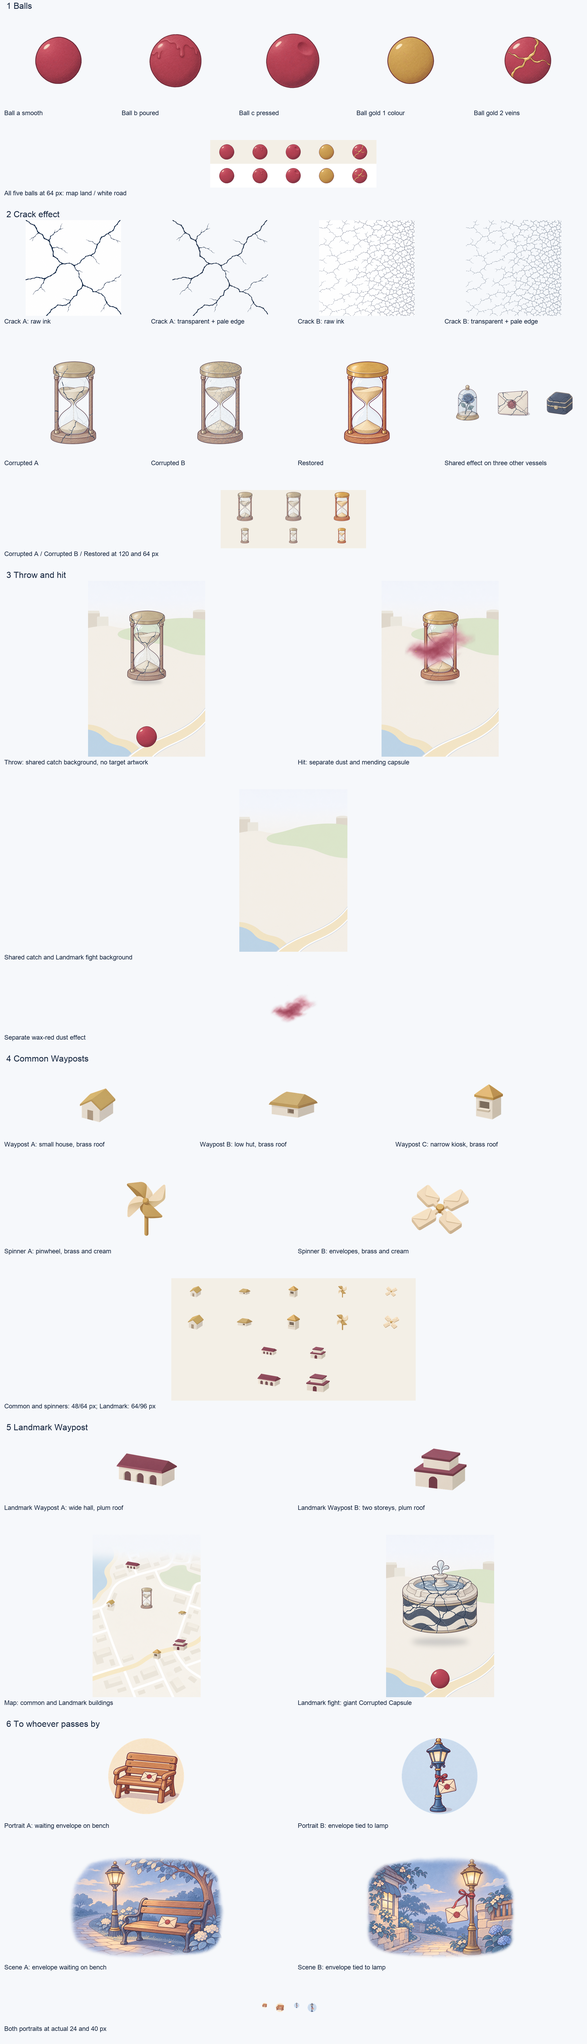
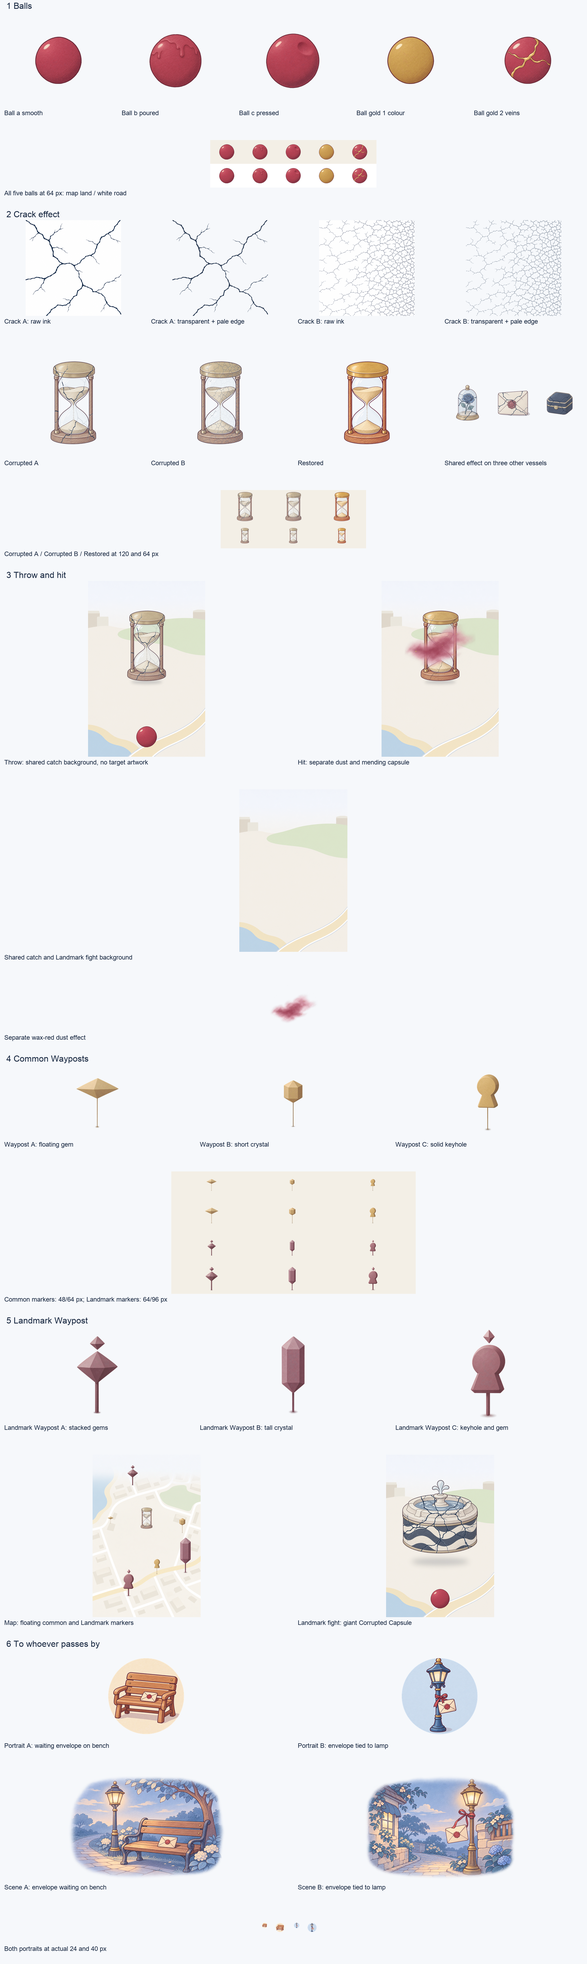
Replace Time Capsule Wayposts with floating markers

diff --git a/design/art/concepts/lost-and-found/make-review.py b/design/art/concepts/lost-and-found/make-review.py
@@ -4,7 +4,7 @@ from PIL import Image, ImageOps, ImageDraw, ImageFilter, ImageFont
 P=Path(__file__).resolve().parent
 LAND=(243,239,230); NAVY=(22,38,63); BRASS=(201,161,90); PLUM=(110,43,63)
 SIZE=(1024,1536)
-NAMES=("block-waypost-a-house","block-waypost-b-hut","block-waypost-c-kiosk","block-spinner-a-pinwheel","block-spinner-b-envelopes")
+NAMES=("marker-a-gem","marker-b-crystal","marker-c-keyhole")
 def load(path): return Image.open(path).convert("RGBA")
 def box(im): return im.getchannel("A").point(lambda x:255 if x>=16 else 0).getbbox()
 def crop(im): return im.crop(box(im))
@@ -16,12 +16,12 @@ def fit(im,w,h):
 def layer(im,xy):
     out=Image.new("RGBA",SIZE);out.alpha_composite(im,xy);return out
 def export(name,im): im.save(P/name)
-LANDMARKS=("block-landmark-a-hall","block-landmark-b-steps")
+LANDMARKS=("landmark-a-gem","landmark-b-crystal","landmark-c-keyhole")
 def prepare_objects():
     for name in NAMES+LANDMARKS:
         f=P/f"waypost/{name}.png";im=load(f)
         if max(im.size)>1024:im.thumbnail((1024,1024),Image.Resampling.LANCZOS)
-        # Remove near-transparent specks while preserving pale opaque walls.
+        # Remove near-transparent specks while preserving opaque marker facets.
         im.putalpha(im.getchannel("A").point(lambda v:0 if v<4 else v))
         im.save(f)
 def overview():
@@ -29,27 +29,27 @@ def overview():
     hero=resized(crop(load(P/"cracks/hourglass-corrupted-a.png")),height=200)
     out.alpha_composite(hero,((1024-hero.width)//2,500))
     for name,(cx,cy) in zip(NAMES[:3],((170,650),(850,740),(610,1130))):
-        im=resized(crop(load(P/f"waypost/{name}.png")),width=80)
-        out.alpha_composite(im,(cx-im.width//2,cy-im.height//2))
-    for name,(cx,cy) in zip(LANDMARKS,((380,290),(830,1040))):
-        im=resized(crop(load(P/f"waypost/{name}.png")),width=140)
-        out.alpha_composite(im,(cx-im.width//2,cy-im.height//2))
+        im=resized(crop(load(P/f"waypost/{name}.png")),width=56)
+        out.alpha_composite(im,(cx-im.width//2,cy-im.height))
+    for name,(cx,cy) in zip(LANDMARKS,((380,290),(880,1120),(340,1340))):
+        im=resized(crop(load(P/f"waypost/{name}.png")),width=100)
+        out.alpha_composite(im,(cx-im.width//2,cy-im.height))
     export("screens/map-capsule-and-wayposts.png",out.convert("RGB"))
 def small_check():
     out=Image.new("RGBA",(1000,500),LAND+(255,))
     for i,name in enumerate(NAMES):
         for row,size in enumerate((48,64)):
             im=fit(crop(load(P/f"waypost/{name}.png")),size,size)
-            out.alpha_composite(im,(i*200+(200-im.width)//2,15+row*125+(80-im.height)//2))
+            out.alpha_composite(im,(i*330+(330-im.width)//2,15+row*125+(80-im.height)//2))
     for i,name in enumerate(LANDMARKS):
         for row,size in enumerate((64,96)):
             im=fit(crop(load(P/f"waypost/{name}.png")),size,size)
-            out.alpha_composite(im,(350+i*200+(100-im.width)//2,280+row*110))
+            out.alpha_composite(im,(115+i*330+(100-im.width)//2,280+row*110))
     export("checks/wayposts-64.png",out)
 def sheet():
     font=ImageFont.truetype("/System/Library/Fonts/Supplemental/Arial.ttf",24)
     title=ImageFont.truetype("/System/Library/Fonts/Supplemental/Arial.ttf",32)
-    names=("Waypost A: small house","Waypost B: low hut","Waypost C: narrow kiosk","Spinner A: pinwheel","Spinner B: envelopes")
+    names=("Waypost A: floating gem","Waypost B: short crystal","Waypost C: solid keyhole")
     rows=[
       ("1 Balls",[(str(f.relative_to(P)),f.stem.replace("ball-","Ball ").replace("-"," ")) for f in sorted((P/"ball").glob("*.png"))],400),
       ("",[("checks/balls-64.png","All five balls at 64 px: map land / white road")],220),
@@ -59,11 +59,10 @@ def sheet():
       ("3 Throw and hit",[("screens/screen-throw.png","Throw: shared catch background, no target artwork"),("screens/screen-hit.png","Hit: separate dust and mending capsule")],700),
       ("",[("screens/catch-background.png","Shared catch and Landmark fight background")],650),
       ("",[("screens/hit-dust.png","Separate wax-red dust effect")],220),
-      ("4 Common Wayposts",[(f"waypost/{n}.png",label+", brass roof") for n,label in zip(NAMES[:3],names[:3])],320),
-      ("",[(f"waypost/{n}.png",label+", brass and cream") for n,label in zip(NAMES[3:],names[3:])],320),
-      ("",[("checks/wayposts-64.png","Common and spinners: 48/64 px; Landmark: 64/96 px")],500),
-      ("5 Landmark Waypost",[("waypost/block-landmark-a-hall.png","Landmark Waypost A: wide hall, plum roof"),("waypost/block-landmark-b-steps.png","Landmark Waypost B: two storeys, plum roof")],300),
-      ("",[("screens/map-capsule-and-wayposts.png","Map: common and Landmark buildings"),("screens/screen-landmark-fight.png","Landmark fight: giant Corrupted Capsule")],650),
+      ("4 Common Wayposts",[(f"waypost/{n}.png",label) for n,label in zip(NAMES,names)],320),
+      ("",[("checks/wayposts-64.png","Common markers: 48/64 px; Landmark markers: 64/96 px")],500),
+      ("5 Landmark Waypost",[("waypost/landmark-a-gem.png","Landmark Waypost A: stacked gems"),("waypost/landmark-b-crystal.png","Landmark Waypost B: tall crystal"),("waypost/landmark-c-keyhole.png","Landmark Waypost C: keyhole and gem")],400),
+      ("",[("screens/map-capsule-and-wayposts.png","Map: floating common and Landmark markers"),("screens/screen-landmark-fight.png","Landmark fight: giant Corrupted Capsule")],650),
       ("6 To whoever passes by",[("whoever/portrait-a-bench.png","Portrait A: waiting envelope on bench"),("whoever/portrait-b-lamp.png","Portrait B: envelope tied to lamp")],380),
       ("",[("whoever/scene-a-bench.png","Scene A: envelope waiting on bench"),("whoever/scene-b-lamp.png","Scene B: envelope tied to lamp")],450),
       ("",[("checks/portraits-24-40.png","Both portraits at actual 24 and 40 px")],150)

diff --git a/design/art/concepts/lost-and-found/README.md b/design/art/concepts/lost-and-found/README.md
@@ -1,27 +1,23 @@
 # Time Capsule / 時光膠囊 — concept pictures
 
-Concept review only. Corrupted Capsules / 破損膠囊 remain the detailed illustrated objects. Common Wayposts, Landmark Wayposts and spinning objects use quiet, simple solid forms that match the live map's gentle elevated angle. Common roofs are soft brass; Landmark roofs are muted plum. Their walls stay pale map cream.
+Review concepts only. Corrupted Capsules / 破損膠囊 stay detailed and colourful. A Waypost is a muted solid object floating above the map on one thin straight stem ending in a soft shadow dot. The marker itself is what players spin. Common markers use dusty brass; Landmark markers use dusty plum, a larger shape and a thicker stem.
 
 ## Roy to choose
 
 - Ball: A smooth, B poured or C pressed wax.
 - Gold treatment: solid brass-gold wax or branching brass-gold veins.
 - Crack style: Corrupted A (large branching cracks) or Corrupted B (fine crackle).
-- Common Waypost shape: small house, low wide hut or narrow kiosk.
-- Landmark Waypost shape: wide hall or two-storey building.
-- Spinning object: pinwheel or four-envelope windmill.
+- Waypost shape: gem, crystal or solid keyhole, with its matching Landmark version.
 - Portrait: bench or lamp.
 - Scene: bench or lamp.
 
 ## Scope and preserved pictures
 
-This correction replaces the rejected flat Waypost, Landmark building and spinner files with seven `waypost/block-*.png` concepts. The overview, size check, contact sheet, script and this README are updated. Every other file remains byte-identical to `b3f9a4f`, including all catch/fight pictures, backgrounds, capsule layers, balls, crack art, portraits and scenes. PR #77 is unchanged.
+Six floating-marker pictures replace every rejected `waypost/block-*` file. There are no building markers or separate spinning objects. Only these new pictures, `screens/map-capsule-and-wayposts.png`, `checks/wayposts-64.png`, `contact-sheet.png`, `make-review.py` and this README change. Everything else stays byte-identical to `816a358`, including catch/fight pictures and layers, backgrounds, capsule art, balls, crack overlays, portraits and scenes. PR #77 stays unchanged.
 
 ## Separate layers and backgrounds
 
-Map, shadow, capsule, ball and dust remain separate. Catch and Landmark fight share `screens/catch-background.png`. The live-map preview uses `screens/map-plain.png`.
-
-Positioned layers remain under `screens/layers/`: shadow, Corrupted capsule, mending capsule, Ball A, dust, Landmark shadow and Landmark capsule. They contain no target artwork. The app supplies targets and movement. Both backgrounds are invented and show no real place; the real-geography reference step does not apply.
+Map, shadow, capsule, ball and dust remain separate. Catch and Landmark fight share `screens/catch-background.png`; the overview uses `screens/map-plain.png`. Targets and capsule motion are supplied by app code. No drawn target or glow is added. Both backgrounds are invented and show no real place; the real-geography reference step does not apply.
 
 ## Script processing
 
@@ -33,20 +29,20 @@ Run from the repository root with Pillow in a temporary environment outside the 
 
 The script writes only inside this concept folder:
 
-- `prepare_objects()` downscales only the seven new object pictures to fit 1024 without upscaling. The tool returned genuine transparency, so native alpha is preserved apart from clearing near-transparent specks below alpha 4. Pale cream walls are not colour-keyed away. It does not add outlines, a ground, base or ground shadow.
-- `screens/map-capsule-and-wayposts.png` starts from the exact kept live-map background. The exact Corrupted hourglass stays 200 px tall at the same position. The three new common Wayposts are 80 px wide at the former marker centres, and the two new Landmark Wayposts are 140 px wide at the former Landmark centres. No giant capsule is added to this map.
-- `checks/wayposts-64.png` shows the three common buildings and two spinners at maximum visible dimensions 48 and 64 px, and the two Landmark buildings at 64 and 96 px, on map land #F3EFE6.
-- `contact-sheet.png` stays 2200 px wide. Its sections are Balls → Crack effect → Throw and hit → Common Wayposts with spinners → Landmark Waypost → To whoever passes by. Captions identify brass roofs and plum roofs. Only this image contains text.
-- The script no longer regenerates catch/fight composites or modifies their layers. Those retained previews use the shared catch background, separate shadow, exact capsule pixels, Ball A or dust as appropriate. The mending capsule remains 60% blended toward the restored source. The fight keeps its 717 px Corrupted Senado capsule, enlarged soft shadow and existing bottom-centre ball.
-- Kept crack effects, restored master, ball checks, circular portraits, scene fades and their checks retain their pixels and previous processing.
+- `prepare_objects()` downscales the six new marker canvases to fit 1024 without upscaling. The tool returned genuine transparency; native alpha is retained with near-transparent specks below alpha 4 cleared. Each marker's object, stem and small soft shadow dot remain together as the review marker.
+- `screens/map-capsule-and-wayposts.png` starts with the exact kept plain map. The exact Corrupted hourglass stays 200 px tall at its previous position. Three common markers are uniformly resized to 56 px wide and three Landmark markers to 100 px wide. Each is anchored by its bottom shadow dot on a different street. The Landmark crystal is placed away from the common crystal to avoid overlap. No giant capsule is added.
+- `checks/wayposts-64.png` shows common markers at maximum visible dimensions 48 and 64 px, and Landmark markers at 64 and 96 px, on map land #F3EFE6. Each size includes the marker, stem and shadow.
+- `contact-sheet.png` stays 2200 px wide. Its sections are Balls → Crack effect → Throw and hit → Common Wayposts → Landmark Waypost → To whoever passes by. Building and separate spinner pictures are removed. Only this image contains text.
+- Catch/fight composites and their layers are not regenerated. They retain the shared catch background, independent shadow/capsule/ball/dust layers, 60% mending blend, and the existing giant Corrupted Senado fight preview.
+- The kept crack effects, restored master, ball checks, portrait circles, scene fades and their checks retain their pixels and previous processing.
 
-Visual review checks all seven objects for simple matte solid forms, recesses rather than decorative detail, no writing, transparent backgrounds, no ground shadows and small-size readability. App/browser/device integration is outside this concept review.
+Visual review covers all six markers for the requested silhouettes, muted colour families, single stems, soft shadow dots, no platforms/rings/buildings/blue objects/writing, and readability in the size check and map preview. App/browser/device integration is outside this concept review.
 
-## Exact final prompts for the seven new pictures
+## Exact final prompts for the six new pictures
 
-Model: **gpt-image-2 through Codex's built-in image tool**. Each call supplies `design/art/style-sheet.png` first and the kept plain live map second. The unchanged style block begins every prompt.
+Model: **gpt-image-2 through Codex's built-in image tool**. Every call uses the approved style sheet first and `screens/map-plain.png` second. The exact approved style block starts every prompt.
 
-### `waypost/block-waypost-a-house.png`
+### `waypost/marker-a-gem.png`
 
 Model: `gpt-image-2`
 
@@ -59,12 +55,12 @@ App: 時光膠囊 / Time Capsule. People send a sealed letter that can only be o
 - Front three-quarter view, soft top-left light. No text, letters, numbers, logos or real brands.
 - Transparent background, object centred, generous padding (object fills about 70% of the canvas), square.
 Match the attached style sheet exactly.
-Override for this image only: this is one simple solid object made to sit on the map in the second reference image. Ignore the style block's lines about ink line art, hatching, paper grain and palette. Do not copy the detail of the style sheet. It looks three-dimensional like the low blocks on that map: seen from above at the same gentle angle, built from a few simple solid forms, with matte surfaces, no outlines and three soft flat tones (lit top, mid side, shaded side), with light from the top-left. It is not glossy, plastic, realistic or a detailed 3D render. No shadow on the ground, no ground, base, disc, ring, beam or glow. Transparent background, object centred.
-A small house with a plain pitched roof and one door.
-Walls in map cream #EEE9DE and #E6E0D3, with soft darker tones of the same cream for shaded sides. The door or window is one plain darker recess. Roof in soft brass #C9A15A with lighter and darker brass tones. Read as a small building at 64 px. Never a pole, sign, tall tower, arena, cube or floating shape. Keep extremely simple, quiet and low detail. No ground shadow, outlines, decorative detail, text, letters, numbers, labels, logos or writing-like marks.
+Override for this image only: this is one small, simple map marker made to sit on the map in the second reference image. Ignore the style block's lines about ink line art, hatching, paper grain and palette. Do not copy the detail of the style sheet. One solid object hovers in the upper part of the canvas, held up by a single thin straight stem that ends in one small soft dot of shadow on the ground. The object looks three-dimensional, with a few clean flat facets, matte surfaces, no outlines and three soft tones of a single muted colour (lit, mid, shaded), with light from the top-left. It is calm and slightly dusty, not bright, shiny, glossy, plastic or realistic. Only one colour family. No base, plate, ring, disc, beam, glow, sparkle or ground. Transparent background.
+One faceted gem shaped like two SHALLOW pyramids joined at their widest point. Wide low diamond silhouette, not a cube or box.
+Common Waypost marker. Muted dusty brass based on #C9A15A but greyer and softer, only one colour family, three calm flat facet tones. The hovering object is at the top, one thin straight stem supports it and ends at ONE small soft shadow dot, no platform. Readable at 48 px. No cube, blue object, flat plate, square under the object, ring, disc, tower, building, beam, glow, sparkle, text, letters, numbers, logos or writing-like marks.
 ```
 
-### `waypost/block-waypost-b-hut.png`
+### `waypost/marker-b-crystal.png`
 
 Model: `gpt-image-2`
 
@@ -77,12 +73,12 @@ App: 時光膠囊 / Time Capsule. People send a sealed letter that can only be o
 - Front three-quarter view, soft top-left light. No text, letters, numbers, logos or real brands.
 - Transparent background, object centred, generous padding (object fills about 70% of the canvas), square.
 Match the attached style sheet exactly.
-Override for this image only: this is one simple solid object made to sit on the map in the second reference image. Ignore the style block's lines about ink line art, hatching, paper grain and palette. Do not copy the detail of the style sheet. It looks three-dimensional like the low blocks on that map: seen from above at the same gentle angle, built from a few simple solid forms, with matte surfaces, no outlines and three soft flat tones (lit top, mid side, shaded side), with light from the top-left. It is not glossy, plastic, realistic or a detailed 3D render. No shadow on the ground, no ground, base, disc, ring, beam or glow. Transparent background, object centred.
-A low, wide hut with a plain overhanging roof and one small window.
-Walls in map cream #EEE9DE and #E6E0D3, with soft darker tones of the same cream for shaded sides. The door or window is one plain darker recess. Roof in soft brass #C9A15A with lighter and darker brass tones. Read as a small building at 64 px. Never a pole, sign, tall tower, arena, cube or floating shape. Keep extremely simple, quiet and low detail. No ground shadow, outlines, decorative detail, text, letters, numbers, labels, logos or writing-like marks.
+Override for this image only: this is one small, simple map marker made to sit on the map in the second reference image. Ignore the style block's lines about ink line art, hatching, paper grain and palette. Do not copy the detail of the style sheet. One solid object hovers in the upper part of the canvas, held up by a single thin straight stem that ends in one small soft dot of shadow on the ground. The object looks three-dimensional, with a few clean flat facets, matte surfaces, no outlines and three soft tones of a single muted colour (lit, mid, shaded), with light from the top-left. It is calm and slightly dusty, not bright, shiny, glossy, plastic or realistic. Only one colour family. No base, plate, ring, disc, beam, glow, sparkle or ground. Transparent background.
+One SHORT six-sided crystal with a shallow point at each end. Short hexagonal prismatic crystal, plainly different from a cube.
+Common Waypost marker. Muted dusty brass based on #C9A15A but greyer and softer, only one colour family, three calm flat facet tones. The hovering object is at the top, one thin straight stem supports it and ends at ONE small soft shadow dot, no platform. Readable at 48 px. No cube, blue object, flat plate, square under the object, ring, disc, tower, building, beam, glow, sparkle, text, letters, numbers, logos or writing-like marks.
 ```
 
-### `waypost/block-waypost-c-kiosk.png`
+### `waypost/marker-c-keyhole.png`
 
 Model: `gpt-image-2`
 
@@ -95,12 +91,12 @@ App: 時光膠囊 / Time Capsule. People send a sealed letter that can only be o
 - Front three-quarter view, soft top-left light. No text, letters, numbers, logos or real brands.
 - Transparent background, object centred, generous padding (object fills about 70% of the canvas), square.
 Match the attached style sheet exactly.
-Override for this image only: this is one simple solid object made to sit on the map in the second reference image. Ignore the style block's lines about ink line art, hatching, paper grain and palette. Do not copy the detail of the style sheet. It looks three-dimensional like the low blocks on that map: seen from above at the same gentle angle, built from a few simple solid forms, with matte surfaces, no outlines and three soft flat tones (lit top, mid side, shaded side), with light from the top-left. It is not glossy, plastic, realistic or a detailed 3D render. No shadow on the ground, no ground, base, disc, ring, beam or glow. Transparent background, object centred.
-A tiny narrow kiosk with a small pointed roof and one service window.
-Walls in map cream #EEE9DE and #E6E0D3, with soft darker tones of the same cream for shaded sides. The door or window is one plain darker recess. Roof in soft brass #C9A15A with lighter and darker brass tones. Read as a small building at 64 px. Never a pole, sign, tall tower, arena, cube or floating shape. Keep extremely simple, quiet and low detail. No ground shadow, outlines, decorative detail, text, letters, numbers, labels, logos or writing-like marks.
+Override for this image only: this is one small, simple map marker made to sit on the map in the second reference image. Ignore the style block's lines about ink line art, hatching, paper grain and palette. Do not copy the detail of the style sheet. One solid object hovers in the upper part of the canvas, held up by a single thin straight stem that ends in one small soft dot of shadow on the ground. The object looks three-dimensional, with a few clean flat facets, matte surfaces, no outlines and three soft tones of a single muted colour (lit, mid, shaded), with light from the top-left. It is calm and slightly dusty, not bright, shiny, glossy, plastic or realistic. Only one colour family. No base, plate, ring, disc, beam, glow, sparkle or ground. Transparent background.
+One SOLID keyhole-shaped object with real thickness, standing upright. The external silhouette is a round head merging into a short flared trapezoid foot; filled solid, NOT a hole cut into a plate. No plate behind it.
+Common Waypost marker. Muted dusty brass based on #C9A15A but greyer and softer, only one colour family, three calm flat facet tones. The hovering object is at the top, one thin straight stem supports it and ends at ONE small soft shadow dot, no platform. Readable at 48 px. No cube, blue object, flat plate, square under the object, ring, disc, tower, building, beam, glow, sparkle, text, letters, numbers, logos or writing-like marks.
 ```
 
-### `waypost/block-landmark-a-hall.png`
+### `waypost/landmark-a-gem.png`
 
 Model: `gpt-image-2`
 
@@ -113,13 +109,12 @@ App: 時光膠囊 / Time Capsule. People send a sealed letter that can only be o
 - Front three-quarter view, soft top-left light. No text, letters, numbers, logos or real brands.
 - Transparent background, object centred, generous padding (object fills about 70% of the canvas), square.
 Match the attached style sheet exactly.
-Override for this image only: this is one simple solid object made to sit on the map in the second reference image. Ignore the style block's lines about ink line art, hatching, paper grain and palette. Do not copy the detail of the style sheet. It looks three-dimensional like the low blocks on that map: seen from above at the same gentle angle, built from a few simple solid forms, with matte surfaces, no outlines and three soft flat tones (lit top, mid side, shaded side), with light from the top-left. It is not glossy, plastic, realistic or a detailed 3D render. No shadow on the ground, no ground, base, disc, ring, beam or glow. Transparent background, object centred.
-A wide plain hall with one long low roof and three arched doors.
-Walls in map cream #EEE9DE and #E6E0D3 with soft darker tones of the same cream on shaded sides; doors are plain darker recesses. Roof in muted plum #6E2B3F with lighter and darker plum tones. Clearly larger and more important than a common Waypost. Nothing like a capsule, vessel, jar, box or fountain. Not a tower, arena, temple or real building.
-Keep very simple and quiet: a few solid forms, no detailed decoration, no ground shadow, no outlines, no base or ground. No text, letters, numbers, labels, logos or writing-like marks.
+Override for this image only: this is one small, simple map marker made to sit on the map in the second reference image. Ignore the style block's lines about ink line art, hatching, paper grain and palette. Do not copy the detail of the style sheet. One solid object hovers in the upper part of the canvas, held up by a single thin straight stem that ends in one small soft dot of shadow on the ground. The object looks three-dimensional, with a few clean flat facets, matte surfaces, no outlines and three soft tones of a single muted colour (lit, mid, shaded), with light from the top-left. It is calm and slightly dusty, not bright, shiny, glossy, plastic or realistic. Only one colour family. No base, plate, ring, disc, beam, glow, sparkle or ground. Transparent background.
+TWO shallow faceted gem shapes stacked: a large gem made from two shallow pyramids joined at their widest point, with a small matching gem HOVERING a short clear gap ABOVE it. The single straight stem supports the large lower gem. No connection or plate between the gems.
+Landmark Waypost marker. Muted dusty plum based on #6E2B3F but greyer and softer, one colour family with three calm flat facet tones. Clearly larger and more important than its common marker counterpart, supported on a slightly thicker straight stem ending at ONE small soft shadow dot. No base or platform. No cube, blue object, flat plate, square beneath the object, ring, disc, tower, building, beam, glow, sparkle, text, letters, numbers, logos or writing-like marks.
 ```
 
-### `waypost/block-landmark-b-steps.png`
+### `waypost/landmark-b-crystal.png`
 
 Model: `gpt-image-2`
 
@@ -132,13 +127,12 @@ App: 時光膠囊 / Time Capsule. People send a sealed letter that can only be o
 - Front three-quarter view, soft top-left light. No text, letters, numbers, logos or real brands.
 - Transparent background, object centred, generous padding (object fills about 70% of the canvas), square.
 Match the attached style sheet exactly.
-Override for this image only: this is one simple solid object made to sit on the map in the second reference image. Ignore the style block's lines about ink line art, hatching, paper grain and palette. Do not copy the detail of the style sheet. It looks three-dimensional like the low blocks on that map: seen from above at the same gentle angle, built from a few simple solid forms, with matte surfaces, no outlines and three soft flat tones (lit top, mid side, shaded side), with light from the top-left. It is not glossy, plastic, realistic or a detailed 3D render. No shadow on the ground, no ground, base, disc, ring, beam or glow. Transparent background, object centred.
-A wide two-storey building, with a smaller upper storey sitting on a larger lower storey, plain roofs and one central arched door. No windows or extra detail.
-Walls in map cream #EEE9DE and #E6E0D3 with soft darker tones of the same cream on shaded sides; doors are plain darker recesses. Roof in muted plum #6E2B3F with lighter and darker plum tones. Clearly larger and more important than a common Waypost. Nothing like a capsule, vessel, jar, box or fountain. Not a tower, arena, temple or real building.
-Keep very simple and quiet: a few solid forms, no detailed decoration, no ground shadow, no outlines, no base or ground. No text, letters, numbers, labels, logos or writing-like marks.
+Override for this image only: this is one small, simple map marker made to sit on the map in the second reference image. Ignore the style block's lines about ink line art, hatching, paper grain and palette. Do not copy the detail of the style sheet. One solid object hovers in the upper part of the canvas, held up by a single thin straight stem that ends in one small soft dot of shadow on the ground. The object looks three-dimensional, with a few clean flat facets, matte surfaces, no outlines and three soft tones of a single muted colour (lit, mid, shaded), with light from the top-left. It is calm and slightly dusty, not bright, shiny, glossy, plastic or realistic. Only one colour family. No base, plate, ring, disc, beam, glow, sparkle or ground. Transparent background.
+ONE TALL SIX-SIDED crystal, about twice as tall as the common short crystal, with a shallow point at each end. One elongated faceted hexagonal prism; not a cube or tower.
+Landmark Waypost marker. Muted dusty plum based on #6E2B3F but greyer and softer, one colour family with three calm flat facet tones. Clearly larger and more important than its common marker counterpart, supported on a slightly thicker straight stem ending at ONE small soft shadow dot. No base or platform. No cube, blue object, flat plate, square beneath the object, ring, disc, tower, building, beam, glow, sparkle, text, letters, numbers, logos or writing-like marks.
 ```
 
-### `waypost/block-spinner-a-pinwheel.png`
+### `waypost/landmark-c-keyhole.png`
 
 Model: `gpt-image-2`
 
@@ -151,32 +145,14 @@ App: 時光膠囊 / Time Capsule. People send a sealed letter that can only be o
 - Front three-quarter view, soft top-left light. No text, letters, numbers, logos or real brands.
 - Transparent background, object centred, generous padding (object fills about 70% of the canvas), square.
 Match the attached style sheet exactly.
-Override for this image only: this is one simple solid object made to sit on the map in the second reference image. Ignore the style block's lines about ink line art, hatching, paper grain and palette. Do not copy the detail of the style sheet. It looks three-dimensional like the low blocks on that map: seen from above at the same gentle angle, built from a few simple solid forms, with matte surfaces, no outlines and three soft flat tones (lit top, mid side, shaded side), with light from the top-left. It is not glossy, plastic, realistic or a detailed 3D render. No shadow on the ground, no ground, base, disc, ring, beam or glow. Transparent background, object centred.
-A plain chunky FOUR-BLADE pinwheel on a short stick. Soft brass #C9A15A and cream #F3E2BB tones. Distinct thick folded vanes, plainly something a finger can spin. Never a solid disc, ring or picture.
-Keep very simple and quiet: a few solid forms, no detailed decoration, no ground shadow, no outlines, no base or ground. No text, letters, numbers, labels, logos or writing-like marks.
-```
-
-### `waypost/block-spinner-b-envelopes.png`
-
-Model: `gpt-image-2`
-
-References: `design/art/style-sheet.png`, `design/art/concepts/lost-and-found/screens/map-plain.png`
-
-```text
-App: 時光膠囊 / Time Capsule. People send a sealed letter that can only be opened at a set time and place. Mood: tender, human, nostalgic, "precious in the AI age". Hand-inked storybook, not glossy 3D.
-- Clean ink line art with a slightly hand-drawn line, flat colour fills plus one soft shading tone, a little paper grain, light hatching only (it must still read at about 120 px). Lines in plum #6E2B3F or navy #16263F.
-- Palette only: ink blue #2F5D8A, light blue #5A8FD0, glass blue #DCE8F2, plum #6E2B3F, brass #C9A15A, wax red #A3364F, navy #16263F, paper #F6F8FB, cream #F3E2BB. Warm brown wood is allowed for wooden objects.
-- Front three-quarter view, soft top-left light. No text, letters, numbers, logos or real brands.
-- Transparent background, object centred, generous padding (object fills about 70% of the canvas), square.
-Match the attached style sheet exactly.
-Override for this image only: this is one simple solid object made to sit on the map in the second reference image. Ignore the style block's lines about ink line art, hatching, paper grain and palette. Do not copy the detail of the style sheet. It looks three-dimensional like the low blocks on that map: seen from above at the same gentle angle, built from a few simple solid forms, with matte surfaces, no outlines and three soft flat tones (lit top, mid side, shaded side), with light from the top-left. It is not glossy, plastic, realistic or a detailed 3D render. No shadow on the ground, no ground, base, disc, ring, beam or glow. Transparent background, object centred.
-FOUR plain chunky cream envelopes joined at a small brass centre hub, like a little windmill. Soft brass #C9A15A and cream #F3E2BB tones. Plain embossed flap forms, no seals or emblems. Clearly something a finger can spin. Never a solid disc, ring or picture.
-Keep very simple and quiet: a few solid forms, no detailed decoration, no ground shadow, no outlines, no base or ground. No text, letters, numbers, labels, logos or writing-like marks.
+Override for this image only: this is one small, simple map marker made to sit on the map in the second reference image. Ignore the style block's lines about ink line art, hatching, paper grain and palette. Do not copy the detail of the style sheet. One solid object hovers in the upper part of the canvas, held up by a single thin straight stem that ends in one small soft dot of shadow on the ground. The object looks three-dimensional, with a few clean flat facets, matte surfaces, no outlines and three soft tones of a single muted colour (lit, mid, shaded), with light from the top-left. It is calm and slightly dusty, not bright, shiny, glossy, plastic or realistic. Only one colour family. No base, plate, ring, disc, beam, glow, sparkle or ground. Transparent background.
+ONE LARGE SOLID keyhole-shaped object with real thickness, upright, with ONE small faceted gem HOVERING a short clear gap ABOVE it. The keyhole external silhouette is a round head merging into a short flared trapezoid foot, filled solid, not a hole in a plate. A single straight stem supports the keyhole. No plate behind it.
+Landmark Waypost marker. Muted dusty plum based on #6E2B3F but greyer and softer, one colour family with three calm flat facet tones. Clearly larger and more important than its common marker counterpart, supported on a slightly thicker straight stem ending at ONE small soft shadow dot. No base or platform. No cube, blue object, flat plate, square beneath the object, ring, disc, tower, building, beam, glow, sparkle, text, letters, numbers, logos or writing-like marks.
 ```
 
 ## Retained generation provenance
 
-These previously recorded prompts remain word for word and may contain older wording or file names. Prompts for the deleted flat shapes are removed.
+Previously recorded prompts for kept pictures remain word for word; they may contain older wording or file names. Prompts for deleted buildings and separate spinners are removed.
 
 ### `screens/catch-background.png`
 
